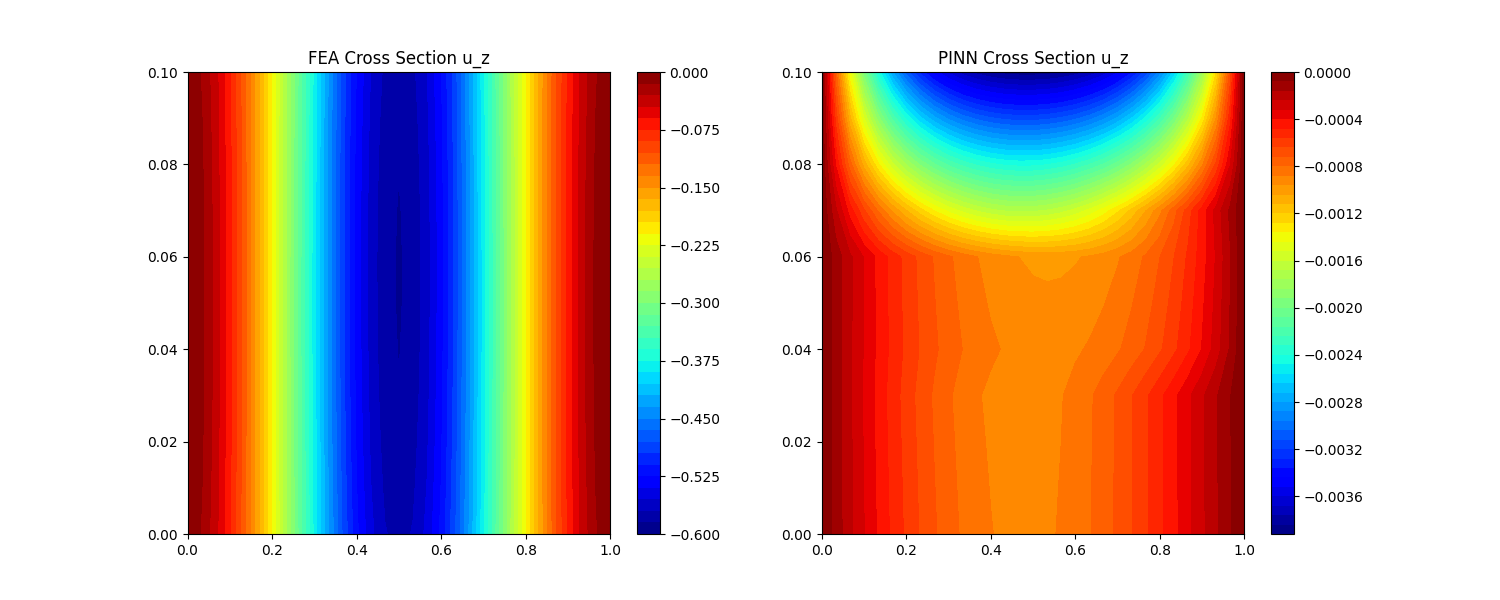
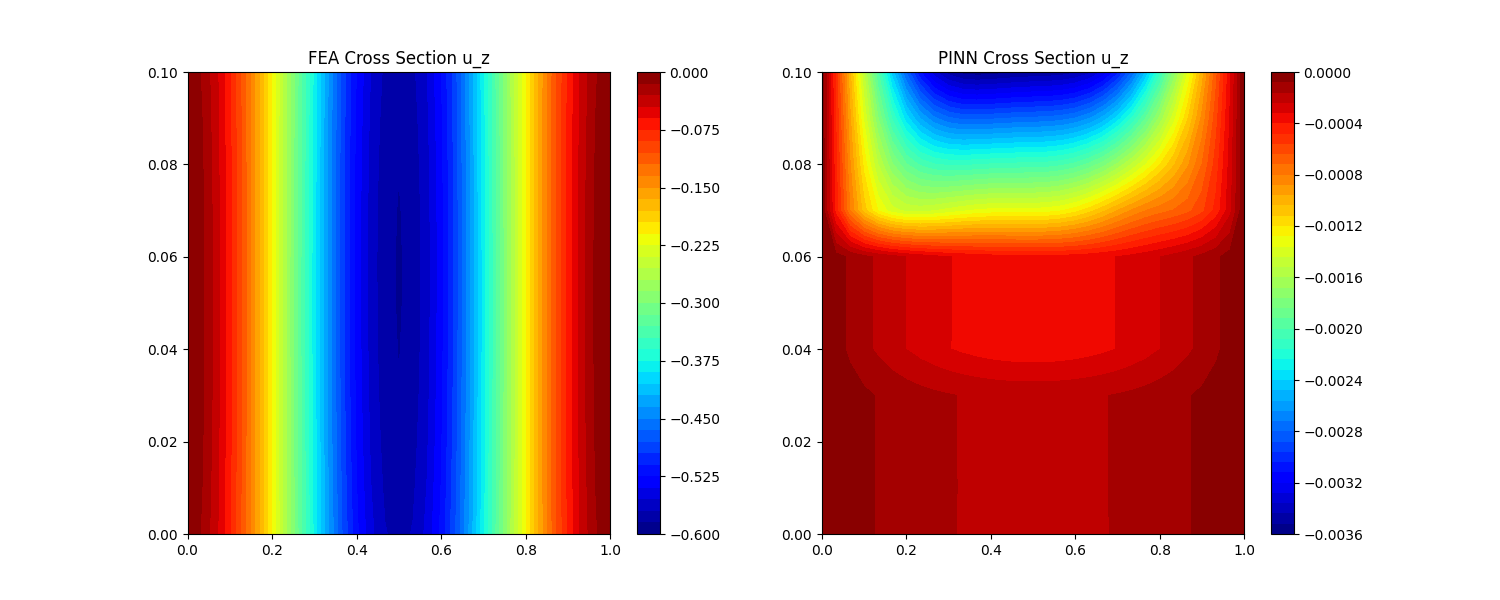
feat: percent error

diff --git a/compare_results.py b/compare_results.py
@@ -97,10 +97,13 @@ def compare():
     abs_diff = np.abs(u_z_fea_top - u_z_pinn_top)
     mae = np.mean(abs_diff)
     max_err = np.max(abs_diff)
+    denom = np.maximum(np.abs(u_z_fea_top), 1e-8)
+    mape = np.mean(abs_diff / denom) * 100.0
     
     print(f"Comparison Results (Top Surface u_z):")
     print(f"MAE: {mae:.6f}")
     print(f"Max Error: {max_err:.6f}")
+    print(f"Mean Abs Percent Error: {mape:.4f}%")
     print(f"Peak Deflection FEA: {u_z_fea_top.min():.6f}")
     print(f"Peak Deflection PINN: {u_z_pinn_top.min():.6f}")
     

diff --git a/pinn-workflow/pinn_config.py b/pinn-workflow/pinn_config.py
@@ -45,5 +45,5 @@ N_INTERIOR = 2000 # Per layer
 N_BOUNDARY = 500  # Per face type
 
 # Fourier Features
-FOURIER_DIM = 64 # Number of Fourier frequencies
+FOURIER_DIM = 32 # Number of Fourier frequencies
 FOURIER_SCALE = 1.0 # Standard deviation for frequency sampling
